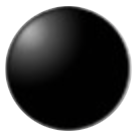
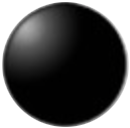
someting cool inside draw_board

Changed region(s): [[0.0, 0.0, 1.0, 1.0]]

diff --git a/gaming_UI.py b/gaming_UI.py
@@ -22,16 +22,18 @@ class GamingUI():
         '''
         This is for cool gray stuff 
         maybe it should go to somewhere
+        '''
         (i,j) = pygame.mouse.get_pos()
         i,j=int(round((i-100)/45)),int(round((j-100)/45))
-        pygame.draw.rect(game1.surface, (150, 150, 150),[100+45*i-35/2, 100+45*j-35/2, 45, 45],0)
-        '''       
+        if i>-1 and j>-1 and i<16 and j<16:
+            pygame.draw.circle(game1.surface, (175, 175, 175),[100+45*i, 100+45*j],45/2,0)
+              
         for i in range(15):
             for j in range(15):
                 if board.get_board()[i][j] == -1:
-                    self.surface.blit(self.B_img, (100+45*i-35/2, 100+45*j-35/2))# 35/2那個是修正棋子的圖片偏移 定中心為(0,0)
+                    self.surface.blit(self.B_img, (100+45*i-35/2-4, 100+45*j-35/2-4))# 35/2那個是修正棋子的圖片偏移 定中心為(0,0)
                 elif board.get_board()[i][j] == 1:
-                    self.surface.blit(self.W_img, (100+45*i-35/2, 100+45*j-35/2))
+                    self.surface.blit(self.W_img, (100+45*i-35/2-4, 100+45*j-35/2-4))
         pygame.display.update()
 
 
